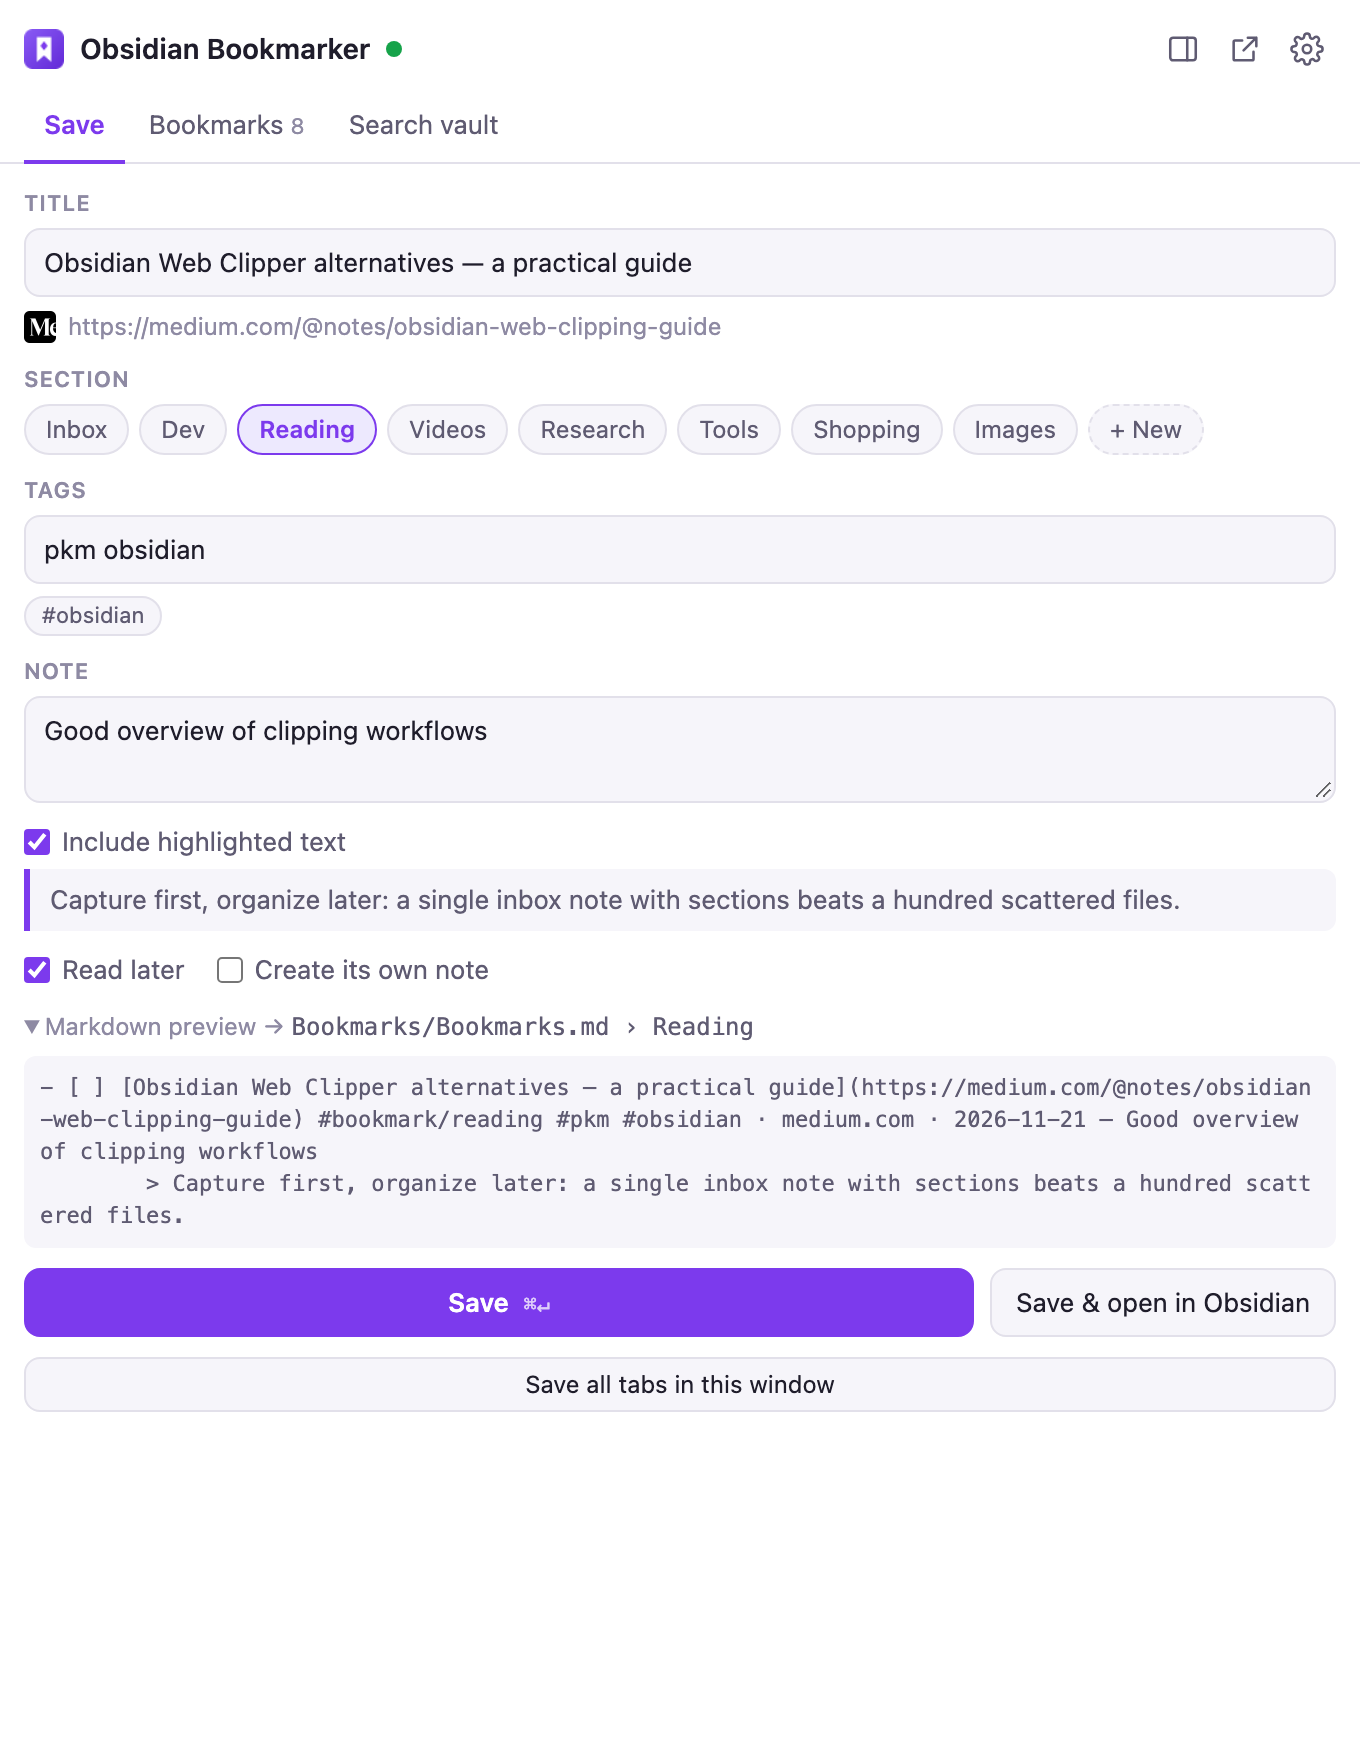
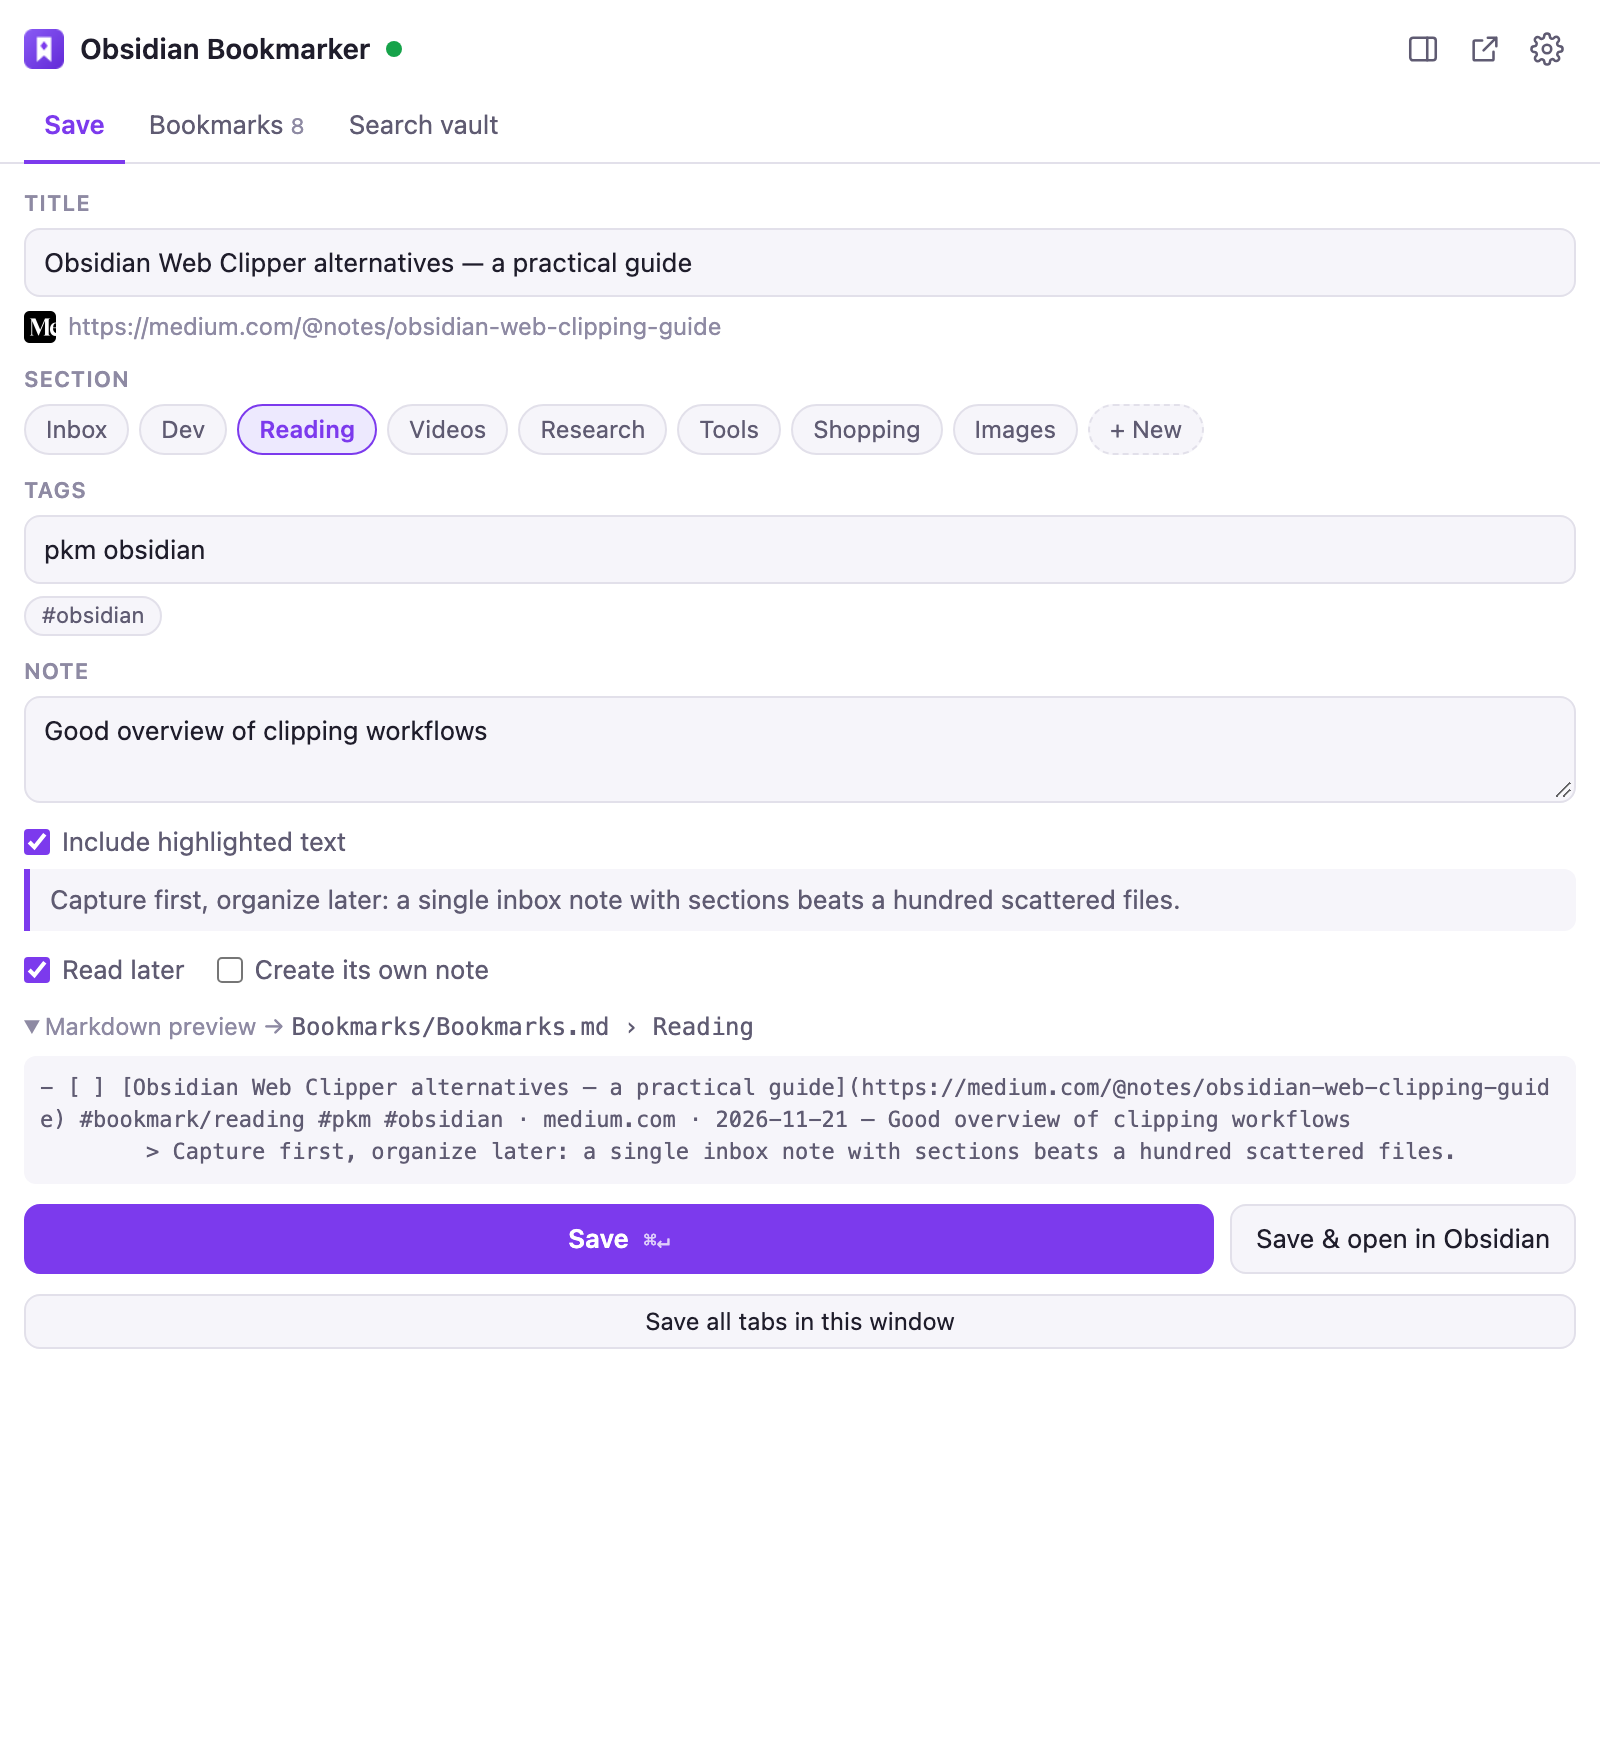
Add themes, move confirmations into the header, widen popup to 800px
- Eight themes besides the system default: Light, Dark, Nord, Dracula,
  Solarized Light, Solarized Dark, Gruvbox, Rose Pine (live preview in settings)
- Confirmation and error messages appear in the header instead of over the form
- Popup is 800px wide (Chrome's maximum)
- Regenerate screenshots; add theme screenshots to the README

diff --git a/popup/popup.css b/popup/popup.css
@@ -40,7 +40,7 @@
 [hidden] { display: none !important; }
 html, body { margin: 0; }
 body {
-  width: 680px;
+  width: 800px;
   min-height: 600px;
   max-height: 600px;
   background: var(--bg);
@@ -194,10 +194,12 @@ blockquote {
 .md-props dt { color: var(--fg-3); }
 .md-props dd { margin: 0; overflow-wrap: anywhere; }
 
+/* Sits in the header, clear of the form and the list. */
 #toast {
-  position: fixed; left: 50%; bottom: 12px; transform: translate(-50%, 20px);
-  background: var(--fg); color: var(--bg); padding: 7px 14px; border-radius: 999px;
-  font-size: 12px; opacity: 0; transition: .2s; pointer-events: none; max-width: 90%;
+  position: fixed; left: 50%; top: 8px; transform: translate(-50%, -16px); z-index: 10;
+  background: var(--ok); color: #fff; padding: 8px 16px; border-radius: 10px; font-weight: 600;
+  font-size: 13px; opacity: 0; transition: .2s; pointer-events: none; max-width: 60%;
+  box-shadow: 0 6px 20px rgba(0, 0, 0, .25);
 }
 #toast.show { opacity: 1; transform: translate(-50%, 0); }
 .item .tag, .md .md-tag { cursor: pointer; }
@@ -207,3 +209,13 @@ blockquote {
 .group-h.drop { color: var(--accent); background: var(--accent-soft); border-radius: 6px; outline: 2px dashed var(--accent); }
 #toast a { color: inherit; font-weight: 700; text-decoration: underline; cursor: pointer; }
 #toast.err { background: var(--err); color: #fff; }
+
+/* Themes: chosen in settings; "system" (no attribute match) follows the OS light/dark setting above. */
+:root[data-theme="light"] { --bg: #ffffff; --bg-2: #f6f5fa; --bg-3: #ecebf3; --fg: #1f1d2b; --fg-2: #5f5b72; --fg-3: #8e8aa3; --border: #e2e0ea; --accent: #7c3aed; --accent-2: #6d28d9; --accent-soft: #ede9fe; --on-accent: #ffffff; --warn-bg: #fef3c7; --warn-fg: #92400e; color-scheme: light; }
+:root[data-theme="dark"] { --bg: #1e1e24; --bg-2: #26262e; --bg-3: #31313b; --fg: #e9e7f2; --fg-2: #b2aec4; --fg-3: #827e95; --border: #3a3945; --accent: #a78bfa; --accent-2: #8b5cf6; --accent-soft: #2e2747; --on-accent: #1a1426; --warn-bg: #3b2f12; --warn-fg: #fcd34d; color-scheme: dark; }
+:root[data-theme="nord"] { --bg: #2e3440; --bg-2: #3b4252; --bg-3: #434c5e; --fg: #eceff4; --fg-2: #d8dee9; --fg-3: #8f9bb3; --border: #4c566a; --accent: #88c0d0; --accent-2: #81a1c1; --accent-soft: #3b4a5a; --on-accent: #2e3440; --warn-bg: #4a4130; --warn-fg: #ebcb8b; color-scheme: dark; }
+:root[data-theme="dracula"] { --bg: #282a36; --bg-2: #303341; --bg-3: #44475a; --fg: #f8f8f2; --fg-2: #cfcfe0; --fg-3: #8b8fa8; --border: #44475a; --accent: #bd93f9; --accent-2: #ff79c6; --accent-soft: #3a3355; --on-accent: #282a36; --warn-bg: #4a4426; --warn-fg: #f1fa8c; color-scheme: dark; }
+:root[data-theme="solarized-light"] { --bg: #fdf6e3; --bg-2: #eee8d5; --bg-3: #e4ddc8; --fg: #073642; --fg-2: #586e75; --fg-3: #839496; --border: #d9d2bc; --accent: #268bd2; --accent-2: #1a6fb0; --accent-soft: #dcebf5; --on-accent: #ffffff; --warn-bg: #f5e6b3; --warn-fg: #7a5a00; color-scheme: light; }
+:root[data-theme="solarized-dark"] { --bg: #002b36; --bg-2: #073642; --bg-3: #0d4654; --fg: #eee8d5; --fg-2: #93a1a1; --fg-3: #6c8087; --border: #134a58; --accent: #2aa198; --accent-2: #268bd2; --accent-soft: #0b4a4d; --on-accent: #002b36; --warn-bg: #3d3a12; --warn-fg: #e3c35a; color-scheme: dark; }
+:root[data-theme="gruvbox"] { --bg: #282828; --bg-2: #32302f; --bg-3: #3c3836; --fg: #ebdbb2; --fg-2: #d5c4a1; --fg-3: #a89984; --border: #504945; --accent: #fabd2f; --accent-2: #fe8019; --accent-soft: #4a3f1e; --on-accent: #282828; --warn-bg: #4a3320; --warn-fg: #fe8019; color-scheme: dark; }
+:root[data-theme="rose-pine"] { --bg: #191724; --bg-2: #1f1d2e; --bg-3: #26233a; --fg: #e0def4; --fg-2: #c4c0dc; --fg-3: #908caa; --border: #393552; --accent: #ebbcba; --accent-2: #c4a7e7; --accent-soft: #3a2f3e; --on-accent: #191724; --warn-bg: #3b3020; --warn-fg: #f6c177; color-scheme: dark; }

diff --git a/options/options.js b/options/options.js
@@ -2,7 +2,7 @@ import { getSettings, saveSettings, resetSettings, DEFAULTS } from '../src/lib/s
 import { renderEntry } from '../src/lib/markdown.js';
 
 const $ = (id) => document.getElementById(id);
-const TEXT = ['apiUrl', 'apiKey', 'vaultName', 'bookmarksFile', 'clippingsFolder', 'attachmentsFolder', 'tagPrefix', 'entryTemplate', 'domainRules'];
+const TEXT = ['apiUrl', 'apiKey', 'vaultName', 'bookmarksFile', 'clippingsFolder', 'attachmentsFolder', 'tagPrefix', 'entryTemplate', 'domainRules', 'theme'];
 const BOOL = ['addCategoryTag', 'readLater', 'newestFirst', 'linkDate', 'downloadImages', 'closeAfterSave', 'dailyNote', 'splitBySection'];
 
 const lines = (v) => v.split('\n').map((l) => l.trim()).filter(Boolean);
@@ -51,6 +51,7 @@ function updateModeUI() {
 async function load() {
   const s = await getSettings();
   for (const k of TEXT) $(k).value = s[k];
+  document.documentElement.dataset.theme = s.theme;
   for (const k of BOOL) $(k).checked = !!s[k];
   document.querySelector(`input[name=mode][value="${s.mode}"]`).checked = true;
   $('categories').value = s.categories.join('\n');
@@ -66,6 +67,7 @@ function flash(id, msg, ok) {
 }
 
 $('categories').addEventListener('input', syncCategorySelects);
+$('theme').addEventListener('change', (e) => (document.documentElement.dataset.theme = e.target.value)); // live preview
 document.querySelectorAll('input, textarea, select').forEach((n) => n.addEventListener('input', preview));
 document.querySelectorAll('input[name=mode]').forEach((n) => n.addEventListener('change', updateModeUI));
 

diff --git a/options/options.html b/options/options.html
@@ -62,6 +62,19 @@
       <label class="field"><span>Template</span><input id="entryTemplate" spellcheck="false"></label>
       <p class="hint">Placeholders: <code>{{checkbox}}</code> <code>{{link}}</code> <code>{{title}}</code> <code>{{url}}</code> <code>{{domain}}</code> <code>{{date}}</code> <code>{{time}}</code> <code>{{tags}}</code> <code>{{note}}</code> <code>{{category}}</code></p>
       <pre id="tpl-preview" class="tpl-preview"></pre>
+      <label class="field"><span>Theme</span>
+        <select id="theme">
+          <option value="system">Default (follows system light/dark)</option>
+          <option value="light">Light</option>
+          <option value="dark">Dark</option>
+          <option value="nord">Nord</option>
+          <option value="dracula">Dracula</option>
+          <option value="solarized-light">Solarized Light</option>
+          <option value="solarized-dark">Solarized Dark</option>
+          <option value="gruvbox">Gruvbox</option>
+          <option value="rose-pine">Rosé Pine</option>
+        </select>
+      </label>
       <div class="checks">
         <label class="check"><input type="checkbox" id="addCategoryTag"> Add section tag (<code>#bookmark/dev</code>)</label>
         <label class="check"><input type="checkbox" id="readLater"> “Read later” checkbox on by default</label>

diff --git a/scripts/screenshots/mock-chrome.js b/scripts/screenshots/mock-chrome.js
@@ -4,7 +4,7 @@ import { parseBookmarks, newBookmarksFile, insertUnderHeading, renderEntry } fro
 import { DEFAULTS } from '/src/lib/settings.js';
 
 const params = new URLSearchParams(location.search);
-const settings = { ...DEFAULTS, apiKey: 'demo-key', vaultName: 'My Vault', apiUrl: 'https://127.0.0.1:27124' };
+const settings = { ...DEFAULTS, apiKey: 'demo-key', vaultName: 'My Vault', apiUrl: 'https://127.0.0.1:27124', theme: params.get('theme') || 'system' };
 
 const samples = [
   ['Dev', 'coddingtonbear/obsidian-local-rest-api', 'https://github.com/coddingtonbear/obsidian-local-rest-api', ['obsidian', 'api'], 'powers this extension', true],

diff --git a/src/lib/settings.js b/src/lib/settings.js
@@ -52,6 +52,7 @@ export const DEFAULTS = {
   linkDate: false,
   downloadImages: false,
   closeAfterSave: true,
+  theme: 'system', // or light, dark, nord, dracula, solarized-light, solarized-dark, gruvbox, rose-pine
   dailyNote: false, // also append each save to today's daily note (REST mode)
   splitBySection: false, // one note per section next to the bookmarks note (REST mode)
   entryTemplate: '- {{checkbox}}{{link}} {{tags}} · {{domain}} · {{date}}{{note}}',

diff --git a/popup/popup.js b/popup/popup.js
@@ -551,6 +551,7 @@ async function checkStatus() {
 
 async function init() {
   S = await getSettings();
+  document.documentElement.dataset.theme = S.theme;
   $('readlater').checked = S.readLater;
   $('dedicated').disabled = S.mode !== 'rest';
   if (S.mode !== 'rest') $('dedicated').parentElement.title = 'Requires Local REST API mode';

diff --git a/README.md b/README.md
@@ -307,6 +307,18 @@ Searches **all notes in your vault** (not just bookmarks) via the REST API, as y
 
 Click **▯** in the popup header (or right-click the toolbar icon → *Open Obsidian side panel*). The panel stays open while you browse and updates to whichever tab is active.
 
+### Themes
+
+Pick a theme in **Settings → Entry format → Theme**. The default follows your system's light/dark setting; you can also force **Light** or **Dark**, or choose one of six colour themes. The settings page previews the theme as soon as you select it.
+
+| Nord | Dracula | Solarized Light |
+|---|---|---|
+| <img src="docs/images/theme-nord.png" width="260" alt="Nord"> | <img src="docs/images/theme-dracula.png" width="260" alt="Dracula"> | <img src="docs/images/theme-solarized-light.png" width="260" alt="Solarized Light"> |
+
+| Solarized Dark | Gruvbox | Rosé Pine |
+|---|---|---|
+| <img src="docs/images/theme-solarized-dark.png" width="260" alt="Solarized Dark"> | <img src="docs/images/theme-gruvbox.png" width="260" alt="Gruvbox"> | <img src="docs/images/theme-rose-pine.png" width="260" alt="Rosé Pine"> |
+
 ### Keyboard shortcuts
 
 | Shortcut | Action |
@@ -352,6 +364,7 @@ Type `ob` in the address bar, press **Tab** (or Space), then type words from a t
 | Newest first | on | Insert at the top of the section instead of the bottom |
 | Link dates to daily notes | off | Writes `[[2026-10-09]]` instead of `2026-10-09` |
 | Download images into the vault | off | Asks Chrome for site access when enabled; falls back to remote URL if a download fails |
+| Theme | Default (system) | Light, Dark, Nord, Dracula, Solarized Light, Solarized Dark, Gruvbox, Rosé Pine |
 | Close popup after saving | on | |
 | Also log each save in today's daily note | off | REST mode. Appends the entry to the end of today's daily note; needs Obsidian's *Daily notes* core plugin (or Periodic Notes). |
 | One note per section | off | REST mode. New saves go to `<bookmarks folder>/<Section>.md`. The Bookmarks tab, duplicate check and ★ badge read every note in that folder, so entries already in the hub note still show. |
